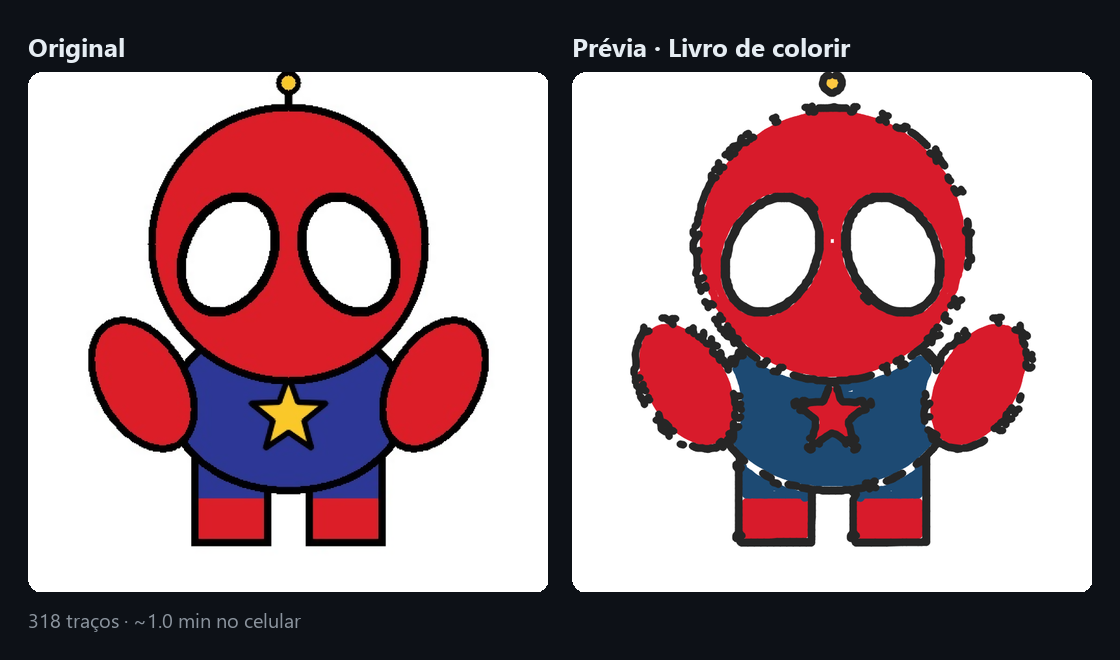
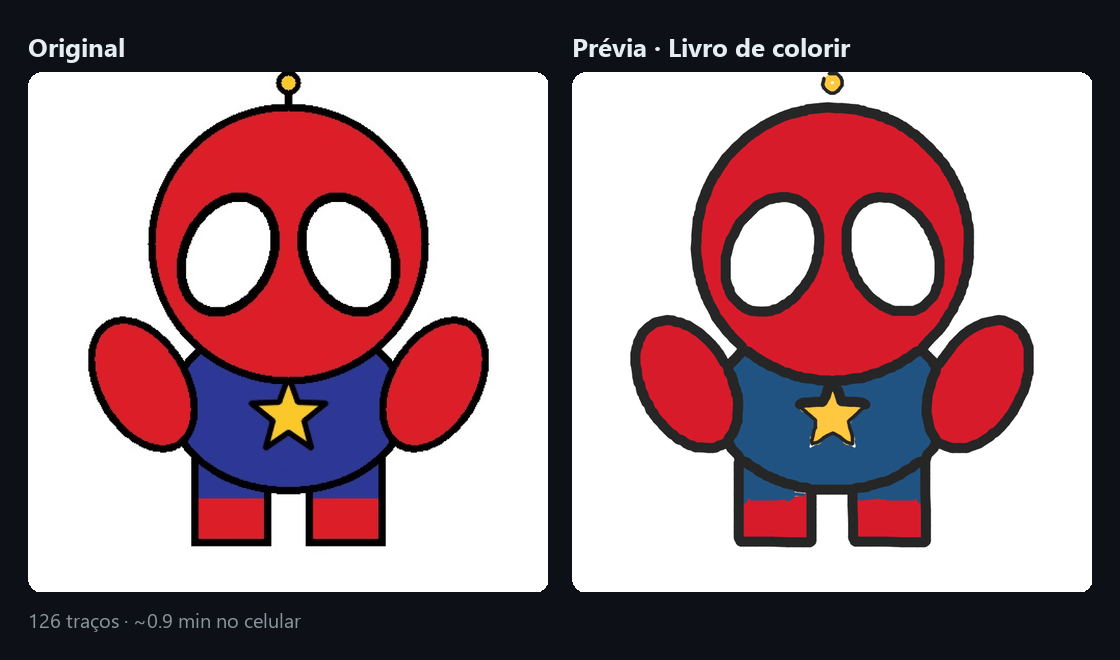
Livro de colorir: contorno contínuo e cores de cada forma preservadas
Num personagem cartoon, o contorno preto grudado no corpo colorido era
tratado como área e saía pontilhado (sobras curtas de preenchimento), e a
estrela amarela ficava vermelha (k fixo = 3 cores por forma).

- Cores de cada forma com k adaptativo (2 a 8), calculadas só nos pixels
  de miolo; os de transição vão para a cor pura mais próxima.
- Faixas finas de cada cor viram linha contínua pelo centro, na largura
  medida; manchas compactas pequenas continuam como área.
- Áreas avançam 3 px sobre a tinta vizinha (não sobre o fundo), sem frestas.
- Teste de regressão e imagem do README atualizados.

diff --git a/studio/planning/line_art_engine.py b/studio/planning/line_art_engine.py
@@ -360,6 +360,65 @@ class LineArtEngine:
         return best
 
     @staticmethod
+    def _color_clusters(pix, pure=None, max_k: int = 8, tol: float = 6.0):
+        """Separa os pixels de uma forma nas cores dela: o menor k (2..max_k) com erro médio <= tol (Lab).
+
+        Um k fixo juntava cores distintas: no personagem de exemplo (vermelho,
+        azul, preto, amarelo e branco) a estrela amarela virou vermelha. As
+        cores saem só dos pixels de miolo (``pure``): os de transição entre duas
+        cores formavam um grupo próprio, que puxava a estrela para laranja-claro
+        e virava riscos nas bordas. Depois, todo pixel vai para a cor mais próxima.
+        """
+        pix = pix.astype(np.float32)
+        rng = np.random.default_rng(42)
+        base = pix[pure] if pure is not None and np.count_nonzero(pure) >= 200 else pix
+        sample = base if len(base) <= 20000 else base[rng.choice(len(base), 20000, replace=False)]
+        criteria = (cv2.TERM_CRITERIA_EPS + cv2.TERM_CRITERIA_MAX_ITER, 20, 0.5)
+        centers = None
+        for k in range(2, max_k + 1):
+            cv2.setRNGSeed(42)  # prévia reprodutível
+            compactness, _, centers = cv2.kmeans(sample, k, None, criteria, 3, cv2.KMEANS_PP_CENTERS)
+            if np.sqrt(compactness / len(sample)) <= tol:
+                break
+        d = ((pix[:, None, :] - centers[None, :, :]) ** 2).sum(axis=2)
+        return d.argmin(axis=1), centers
+
+    @classmethod
+    def _split_area_and_lines(cls, part):
+        """Núcleo largo da forma (área com anéis) e faixas finas (linhas pelo centro).
+
+        Preencher uma faixa de ~11 px com anéis deixava só sobras curtas no
+        pincel mínimo: o contorno preto do personagem saía pontilhado.
+        """
+        d = max(5, int(round(cls.AREA_MIN_WIDTH_PX * 0.75)) | 1)
+        core = cv2.morphologyEx(part, cv2.MORPH_OPEN, cv2.getStructuringElement(cv2.MORPH_ELLIPSE, (d, d)))
+        n, comp, stats, _ = cv2.connectedComponentsWithStats(core)
+        keep = np.zeros_like(core)
+        for i in range(1, n):
+            if stats[i, cv2.CC_STAT_AREA] >= d * d:
+                keep[comp == i] = 255
+        thin = cv2.bitwise_and(part, cv2.bitwise_not(
+            cv2.dilate(keep, cv2.getStructuringElement(cv2.MORPH_ELLIPSE, (5, 5)))))
+        # Manchas compactas (ex.: bolinha da antena) não têm linha central: viram área
+        dist = cv2.distanceTransform(part, cv2.DIST_L2, 5)
+        n, comp, stats, _ = cv2.connectedComponentsWithStats(thin)
+        for i in range(1, n):
+            piece = comp == i
+            radius = float(dist[piece].max())
+            if max(stats[i, cv2.CC_STAT_WIDTH], stats[i, cv2.CC_STAT_HEIGHT]) <= 4.0 * radius:
+                keep[piece] = 255
+                thin[piece] = 0
+        lines = []
+        if np.count_nonzero(thin) >= 30:
+            skel = SkeletonOptimizer.prune_spurs(cls.skeletonize(thin), max_spur_length=4)
+            h, w = part.shape[:2]
+            for path in cls.trace_skeleton_paths(skel, min_length=6.0):
+                widths = [max(1.0, 2.0 * float(dist[min(h - 1, max(0, int(y))), min(w - 1, max(0, int(x)))]))
+                          for x, y in path]
+                lines.append((path, widths))
+        return (keep if np.count_nonzero(keep) else None), lines
+
+    @staticmethod
     def _smooth_labels(labels, window=7):
         """Moda deslizante: tira oscilações de 1–2 pontos antes de cortar o traço."""
         n = len(labels)
@@ -412,29 +471,37 @@ class LineArtEngine:
         lab_img = to_lab(fit_img)
         bg_lab = to_lab(np.uint8([[bg_rgb[::-1]]]))[0, 0]
 
-        # 1. Áreas: formas largas de tinta (separadas por cor) e, no livro de colorir, o miolo entre as linhas
-        areas = []  # (máscara, cor Lab, peso)
+        # Pixels de miolo: vizinhança 5x5 de cor uniforme (fora das transições antisserrilhadas)
+        spread = np.zeros(lab_img.shape[:2], np.float32)
+        for ch in range(3):
+            c = lab_img[..., ch].astype(np.float32)
+            k5 = np.ones((5, 5), np.uint8)
+            spread = np.maximum(spread, cv2.dilate(c, k5) - cv2.erode(c, k5))
+        lab_uniform = spread < 12.0
+
+        # 1. Áreas: formas largas de tinta (separadas por cor) e, no livro de colorir, o miolo entre as linhas.
+        #    Faixas finas de cada cor (ex.: contorno preto grudado no corpo colorido) viram linhas.
+        areas = []  # (máscara da área ou None, cor Lab, peso, [(traço, larguras)])
         if np.count_nonzero(solid_mask):
             n, labels, _stats, _ = cv2.connectedComponentsWithStats(solid_mask)
             for i in range(1, n):
                 comp = (labels == i).astype(np.uint8) * 255
                 pix = lab_img[comp > 0]
                 if len(pix) > 200 and float(np.mean(np.std(pix, axis=0))) > 8.0:
-                    k = 3
-                    _, lbl, centers = cv2.kmeans(pix.astype(np.float32), k, None,
-                                                 (cv2.TERM_CRITERIA_EPS + cv2.TERM_CRITERIA_MAX_ITER, 20, 0.5),
-                                                 3, cv2.KMEANS_PP_CENTERS)
+                    lbl, centers = cls._color_clusters(pix, pure=lab_uniform[comp > 0])
                     full = np.full(comp.shape, -1, np.int32)
-                    full[comp > 0] = lbl.ravel()
-                    for j in range(k):
+                    full[comp > 0] = lbl
+                    for j in range(len(centers)):
                         part = cv2.morphologyEx((full == j).astype(np.uint8) * 255, cv2.MORPH_OPEN, np.ones((3, 3), np.uint8))
                         if np.count_nonzero(part) >= 30:
-                            areas.append((part, centers[j], float(np.count_nonzero(part))))
+                            core, part_lines = cls._split_area_and_lines(part)
+                            areas.append((core, centers[j], float(np.count_nonzero(part)), part_lines))
                 else:
-                    areas.append((comp, np.median(pix, axis=0), float(len(pix))))
+                    core, part_lines = cls._split_area_and_lines(comp)
+                    areas.append((core, np.median(pix, axis=0), float(len(pix)), part_lines))
         if fill_regions:
             for mask, lab_color in enclosed_regions(ink_mask, fit_img, bg_rgb, background_painted=background_painted):
-                areas.append((mask, lab_color, float(np.count_nonzero(mask))))
+                areas.append((mask, lab_color, float(np.count_nonzero(mask)), []))
 
         # 2. Linhas: cor e largura medidas ponto a ponto
         per_stroke = []
@@ -467,13 +534,24 @@ class LineArtEngine:
         matched = [tuple(t.get("matched_rgb") or t.get("rgb") or rgbs[k]) for k, t in enumerate(touches)]
         by_light = sorted(range(len(centers)), key=lambda k: -float(centers[k][0]))
 
-        area_strokes, target_fills = {}, []
-        for (mask, _c, _wt), k in zip(areas, labels[area_offset:]):
-            target_fills.append((mask, matched[k]))
-            for lvl, st in fill_region(mask, cls.AREA_LEVELS, thin_level=("min", min_w)).items():
-                area_strokes.setdefault((lvl, k), []).extend(st)
+        area_strokes, target_fills, line_strokes = {}, [], {}
+        grow_kernel = cv2.getStructuringElement(cv2.MORPH_ELLIPSE, (7, 7))
+        ink_or_area = ink_mask.copy()
+        for mask, _c, _wt, _l in areas:
+            if mask is not None:
+                ink_or_area = cv2.bitwise_or(ink_or_area, mask)
+        for (mask, _c, _wt, part_lines), k in zip(areas, labels[area_offset:]):
+            if mask is not None and np.count_nonzero(mask):
+                target_fills.append((mask, matched[k]))
+                # A área avança 3 px sobre a tinta vizinha (nunca sobre o fundo): sem isso
+                # o fundo aparecia em frestas entre a área e o contorno. As linhas vêm por cima.
+                grown = cv2.bitwise_and(cv2.dilate(mask, grow_kernel), ink_or_area)
+                for lvl, st in fill_region(grown, cls.AREA_LEVELS, thin_level=("min", min_w)).items():
+                    area_strokes.setdefault((lvl, k), []).extend(st)
+            for stroke, widths in part_lines:
+                wclass = cls._width_class(float(np.median(widths)), min_w)
+                line_strokes.setdefault((cls._line_level(wclass, min_w), k), []).append(stroke)
 
-        line_strokes = {}
         cursor = 0
         # Lascas da borda suavizada das áreas (já cobertas pelo preenchimento) não são linhas
         area_halo = cv2.dilate(solid_mask, np.ones((13, 13), np.uint8)) if np.count_nonzero(solid_mask) else None

diff --git a/tests/test_coloring_book_regions.py b/tests/test_coloring_book_regions.py
@@ -1,0 +1,46 @@
+# -*- coding: utf-8 -*-
+"""Livro de colorir: cores de cada forma e contornos grudados em áreas coloridas."""
+import math
+import unittest
+
+import numpy as np
+
+from studio.painter_engine import PainterEngine
+
+
+class TestColoringBookRegions(unittest.TestCase):
+    @classmethod
+    def setUpClass(cls):
+        cls.plan = PainterEngine().generate_line_art_plan("inputs/personagem.jpg", colorize=True, fill_regions=True)
+
+    def _layers(self, purpose, dark=None):
+        out = []
+        for l in self.plan["layers"]:
+            if l["purpose"] != purpose:
+                continue
+            if dark is not None and (sum(l["color_rgb"]) < 120) != dark:
+                continue
+            out.append(l)
+        return out
+
+    def test_black_outline_is_continuous_line(self):
+        """O contorno preto não pode virar sobras curtas de preenchimento (saía pontilhado)."""
+        self.assertFalse(self._layers("line_art_fill", dark=True))
+        outline = [s for l in self._layers("line_art_centerline", dark=True) for s in l["strokes"]]
+        self.assertTrue(outline)
+        lengths = [sum(math.dist(a, b) for a, b in zip(s, s[1:])) for s in outline]
+        self.assertGreater(float(np.median(lengths)), 40.0)
+
+    def test_small_yellow_star_keeps_its_color(self):
+        """Com k fixo, a estrela amarela era agrupada com o vermelho."""
+        yellow = [l for l in self.plan["layers"]
+                  if l["color_rgb"][0] > 200 and l["color_rgb"][1] > 160 and l["color_rgb"][2] < 120]
+        self.assertTrue(yellow)
+        self.assertGreater(sum(l["stroke_count"] for l in yellow), 3)
+
+    def test_plan_is_approved(self):
+        self.assertTrue(self.plan["quality_gate"].passed)
+
+
+if __name__ == "__main__":
+    unittest.main()

diff --git a/README.md b/README.md
@@ -8,7 +8,7 @@
 
 [![Python](https://img.shields.io/badge/python-3.10%2B-3776AB?logo=python&logoColor=white)](https://www.python.org/)
 [![Plataforma](https://img.shields.io/badge/plataforma-Windows%20%7C%20Android%20via%20ADB-555)](#-requisitos)
-[![Testes](https://img.shields.io/badge/testes-374%20passando-2ea44f)](#-testes)
+[![Testes](https://img.shields.io/badge/testes-377%20passando-2ea44f)](#-testes)
 [![Licença](https://img.shields.io/badge/licen%C3%A7a-MIT-blue)](LICENSE)
 
 [Recursos](#-recursos) · [Galeria](#%EF%B8%8F-galeria) · [Instalação](#-instalação) · [Como usar](#-como-usar) · [Como funciona](#%EF%B8%8F-como-funciona) · [MCP](#-servidor-mcp-para-agentes-de-ia) · [Limitações](#-limitações-conhecidas)
@@ -167,7 +167,7 @@ python -m studio.mcp.server      # stdio JSON-RPC
 python -m unittest discover -s tests -p "test_*.py"
 ```
 
-São 374 testes que rodam **sem celular**. Eles cobrem planejamento, simulação, QualityGate, segurança fail-closed, interface, MCP e execução de ponta a ponta contra um `FakeADB` que desenha num canvas virtual com as mesmas larguras da prévia.
+São 377 testes que rodam **sem celular**. Eles cobrem planejamento, simulação, QualityGate, segurança fail-closed, interface, MCP e execução de ponta a ponta contra um `FakeADB` que desenha num canvas virtual com as mesmas larguras da prévia.
 
 ---
 
